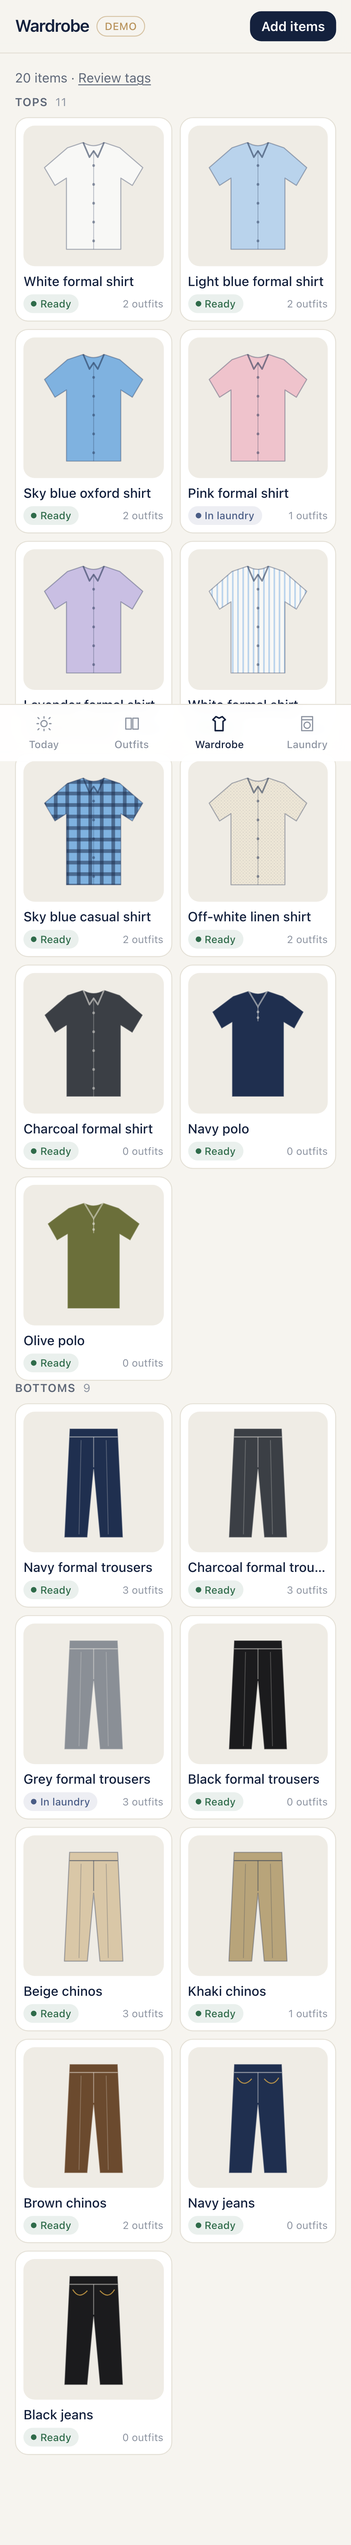
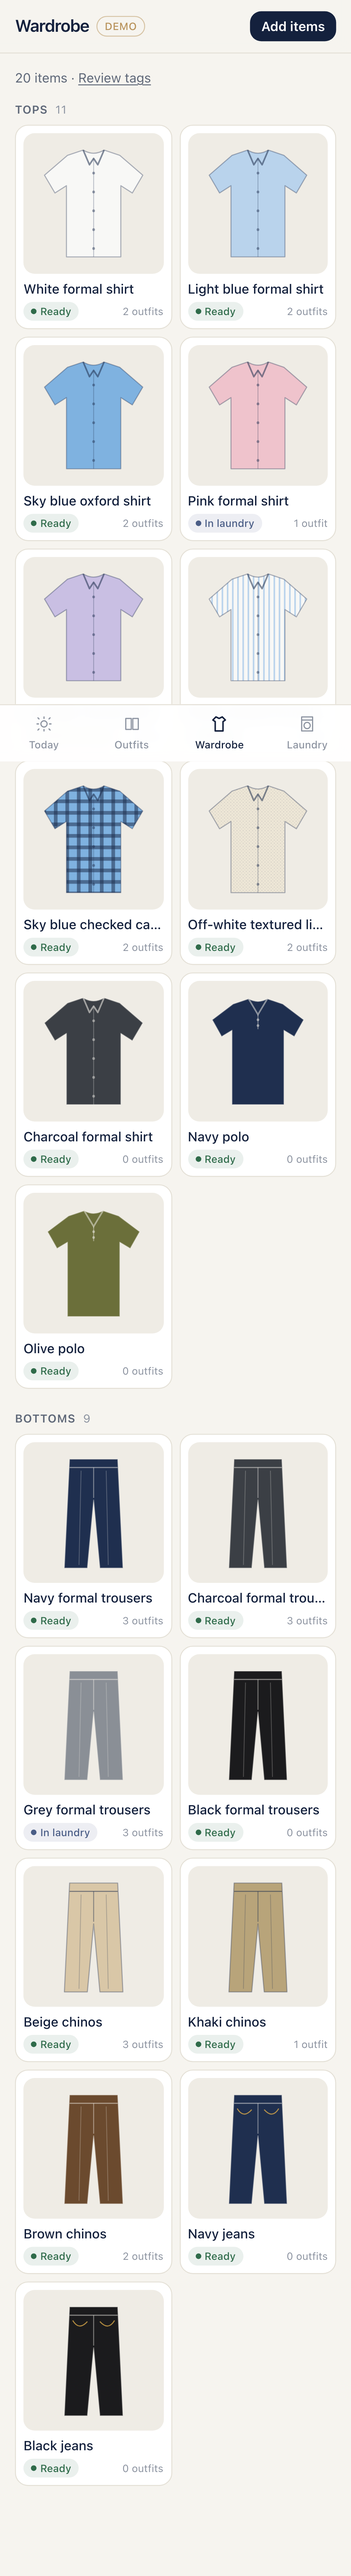
Polish screens: pattern-aware item names, deduped empty state, spacing
- Name patterned items ("white striped formal shirt") everywhere
- "One step away" lists each blocking item once
- Section spacing on Laundry and Wardrobe; singular/plural counts
- README screenshots

Claude-Session: https://claude.ai/code/session_01UoCtuTLtVQbGnkwP4W2tZg

diff --git a/app/(app)/laundry/page.tsx b/app/(app)/laundry/page.tsx
@@ -1,8 +1,9 @@
 "use client";
 
 import { AppShell } from "@/components/AppShell";
-import { Button, GarmentImage, SectionTitle, StateBadge, capitalise } from "@/components/ui";
+import { Button, GarmentImage, SectionTitle, StateBadge, capitalise, plural } from "@/components/ui";
 import { useWardrobe } from "@/components/WardrobeProvider";
+import { itemName } from "@/lib/state/today";
 import type { Item, ItemState } from "@/lib/types";
 
 const GROUPS: Array<{ state: ItemState; title: string }> = [
@@ -24,21 +25,21 @@ export default function LaundryPage() {
         <Button
           data-testid="laundry-done"
           disabled={busy || inLaundry.length === 0}
-          onClick={() => void run((r) => r.laundryDone(), { message: `${inLaundry.length} items back from the wash` })}
+          onClick={() => void run((r) => r.laundryDone(), { message: `${plural(inLaundry.length, "item")} back from the wash` })}
           className="flex-col gap-0.5 py-3"
         >
           Laundry done
-          <span className="text-xs font-normal opacity-75">{inLaundry.length} items</span>
+          <span className="text-xs font-normal opacity-75">{plural(inLaundry.length, "item")}</span>
         </Button>
         <Button
           data-testid="all-ironed"
           variant="secondary"
           disabled={busy || toIron.length === 0}
-          onClick={() => void run((r) => r.ironed(), { message: `${toIron.length} items ironed` })}
+          onClick={() => void run((r) => r.ironed(), { message: `${plural(toIron.length, "item")} ironed` })}
           className="flex-col gap-0.5 py-3"
         >
           All ironed
-          <span className="text-xs font-normal text-muted">{toIron.length} items</span>
+          <span className="text-xs font-normal text-muted">{plural(toIron.length, "item")}</span>
         </Button>
       </div>
       <p className="mt-2 text-xs text-faint">
@@ -49,7 +50,7 @@ export default function LaundryPage() {
         const items = byState(state);
         if (items.length === 0 && state === "unavailable") return null;
         return (
-          <section key={state} data-testid={`group-${state}`}>
+          <section key={state} data-testid={`group-${state}`} className="mt-6">
             <SectionTitle count={items.length}>{title}</SectionTitle>
             {items.length === 0 ? (
               <p className="text-sm text-faint">Nothing here.</p>
@@ -69,7 +70,7 @@ export default function LaundryPage() {
 
 function LaundryRow({ item }: { item: Item }) {
   const { run, busy } = useWardrobe();
-  const name = capitalise(`${item.primary_color} ${item.subcategory}`);
+  const name = capitalise(itemName(item));
   return (
     <li className="flex items-center gap-3 rounded-xl border border-line bg-card p-2 pr-3" data-item-id={item.id}>
       <GarmentImage item={item} className="h-12 w-12 shrink-0" />

diff --git a/lib/state/today.ts b/lib/state/today.ts
@@ -69,9 +69,17 @@ export interface ClosestOutfit {
   action: string;
 }
 
-/** Plain-language name for an item, e.g. "light blue formal shirt". */
-export function itemName(item: Item): string {
-  return `${item.primary_color} ${item.subcategory}`;
+const PATTERN_WORD: Partial<Record<Item["pattern"], string>> = {
+  stripe: "striped",
+  check: "checked",
+  print: "printed",
+  textured: "textured",
+};
+
+/** Plain-language name for an item, e.g. "light blue formal shirt" or "white striped formal shirt". */
+export function itemName(item: Pick<Item, "primary_color" | "subcategory" | "pattern">): string {
+  const pattern = PATTERN_WORD[item.pattern];
+  return pattern ? `${item.primary_color} ${pattern} ${item.subcategory}` : `${item.primary_color} ${item.subcategory}`;
 }
 
 const ACTION_VERB: Record<Exclude<ItemState, "ready">, string> = {
@@ -82,8 +90,9 @@ const ACTION_VERB: Record<Exclude<ItemState, "ready">, string> = {
 
 /**
  * For the "nothing fully ready" empty state: approved outfits blocked by
- * exactly one item, with the action that unblocks each. Ironing first (the
- * quickest fix), then the most-worn outfits.
+ * exactly one item, with the action that unblocks each. One entry per blocking
+ * item (fixing it may unblock several outfits). Ironing first (the quickest
+ * fix), then the most-worn outfits.
  */
 export function closestOutfits(snapshot: WardrobeSnapshot, limit = 3): ClosestOutfit[] {
   const itemsById = new Map(snapshot.items.map((i) => [i.id, i]));
@@ -100,6 +109,7 @@ export function closestOutfits(snapshot: WardrobeSnapshot, limit = 3): ClosestOu
     result.push({ outfit, blocking, action: `${verb} ${itemName(blocking)}` });
   }
   const priority: Record<ItemState, number> = { needs_ironing: 0, in_laundry: 1, unavailable: 2, ready: 3 };
+  const seen = new Set<string>();
   return result
     .sort(
       (a, b) =>
@@ -107,5 +117,6 @@ export function closestOutfits(snapshot: WardrobeSnapshot, limit = 3): ClosestOu
         b.outfit.times_worn - a.outfit.times_worn ||
         a.outfit.id.localeCompare(b.outfit.id),
     )
+    .filter((c) => !seen.has(c.blocking.id) && seen.add(c.blocking.id))
     .slice(0, limit);
 }

diff --git a/app/(app)/wardrobe/page.tsx b/app/(app)/wardrobe/page.tsx
@@ -5,7 +5,7 @@ import { useState } from "react";
 import { AppShell } from "@/components/AppShell";
 import { ItemEditor } from "@/components/ItemEditor";
 import { Sheet } from "@/components/Sheet";
-import { Button, GarmentImage, SectionTitle, StateBadge, capitalise } from "@/components/ui";
+import { Button, GarmentImage, SectionTitle, StateBadge, capitalise, plural } from "@/components/ui";
 import { useWardrobe } from "@/components/WardrobeProvider";
 import { itemName } from "@/lib/state/today";
 import type { Category, Item } from "@/lib/types";
@@ -42,7 +42,7 @@ export default function WardrobePage() {
         const items = snapshot.items.filter((i) => categories.includes(i.category));
         if (items.length === 0) return null;
         return (
-          <section key={title}>
+          <section key={title} className="mt-6 first-of-type:mt-4">
             <SectionTitle count={items.length}>{title}</SectionTitle>
             <ul className="grid grid-cols-2 gap-2">
               {items.map((item) => (
@@ -55,7 +55,7 @@ export default function WardrobePage() {
                     <p className="mt-1.5 truncate text-sm font-medium">{capitalise(itemName(item))}</p>
                     <div className="mt-1 flex items-center justify-between">
                       <StateBadge state={item.state} />
-                      <span className="text-[11px] text-faint">{outfitCount(item.id)} outfits</span>
+                      <span className="text-[11px] text-faint">{plural(outfitCount(item.id), "outfit")}</span>
                     </div>
                   </button>
                 </li>

diff --git a/app/(app)/outfits/page.tsx b/app/(app)/outfits/page.tsx
@@ -8,6 +8,7 @@ import { Sheet } from "@/components/Sheet";
 import { Button, EmptyState, GarmentImage, capitalise } from "@/components/ui";
 import { useWardrobe } from "@/components/WardrobeProvider";
 import { isWearable } from "@/lib/state/machine";
+import { itemName } from "@/lib/state/today";
 import type { Item } from "@/lib/types";
 
 type Filter = "available" | "all";
@@ -113,7 +114,7 @@ function Picker({ title, items, value, onPick }: { title: string; items: Item[];
             key={i.id}
             onClick={() => onPick(i.id)}
             aria-pressed={value === i.id}
-            aria-label={`${i.primary_color} ${i.subcategory}`}
+            aria-label={itemName(i)}
             className={`shrink-0 rounded-xl ${value === i.id ? "ring-2 ring-ink ring-offset-2 ring-offset-paper" : ""}`}
           >
             <GarmentImage item={i} className="h-20 w-20" />
@@ -138,7 +139,7 @@ function CreateOutfit({ onDone }: { onDone: () => void }) {
       <Picker title="Top" items={tops} value={topId} onPick={setTopId} />
       <Picker title="Bottom" items={bottoms} value={bottomId} onPick={setBottomId} />
       <p className="mb-3 min-h-5 text-sm text-muted">
-        {top && bottom ? `${capitalise(top.primary_color)} ${top.subcategory} with ${bottom.primary_color} ${bottom.subcategory}` : "Pick a top and a bottom."}
+        {top && bottom ? `${capitalise(itemName(top))} with ${itemName(bottom)}` : "Pick a top and a bottom."}
       </p>
       <Button
         className="w-full"

diff --git a/tests/unit/state.test.ts b/tests/unit/state.test.ts
@@ -7,7 +7,7 @@ import {
   undoWear,
   wearOutfit,
 } from "../../lib/state/machine";
-import { closestOutfits, rankToday, wearableOutfits } from "../../lib/state/today";
+import { closestOutfits, itemName, rankToday, wearableOutfits } from "../../lib/state/today";
 import type { WardrobeSnapshot } from "../../lib/types";
 import { loadSeed, makeItem, makeOutfit } from "./fixtures";
 
@@ -178,6 +178,20 @@ describe("closest outfits (empty state)", () => {
     const closest = closestOutfits(s);
     expect(closest.length).toBeGreaterThan(0);
     expect(closest[0]!.action).toMatch(/^Iron the (white|light blue) formal shirt$/);
+  });
+
+  it("lists each blocking item once, even when it blocks several outfits", () => {
+    let s = wardrobe();
+    s = { ...s, items: s.items.map((i) => (i.id === "shirt2" ? { ...i, state: "needs_ironing" as const } : i)) };
+    s = { ...s, outfits: s.outfits.filter((o) => o.top_id === "shirt2") };
+    expect(s.outfits).toHaveLength(2);
+    expect(closestOutfits(s).map((c) => c.blocking.id)).toEqual(["shirt2"]);
+  });
+
+  it("names patterns so similar shirts can be told apart", () => {
+    const striped = makeItem({ id: "x", primary_color: "white", pattern: "stripe" });
+    expect(itemName(striped)).toBe("white striped formal shirt");
+    expect(itemName(makeItem({ id: "y" }))).toBe("white formal shirt");
   });
 
   it("skips outfits blocked by more than one item", () => {

diff --git a/components/OutfitCard.tsx b/components/OutfitCard.tsx
@@ -1,6 +1,7 @@
 "use client";
 
 import { lastWornLabel } from "@/lib/dates";
+import { itemName } from "@/lib/state/today";
 import type { Item, Outfit } from "@/lib/types";
 import { GarmentImage, StateBadge, capitalise } from "./ui";
 
@@ -28,12 +29,12 @@ export function OutfitCard({
       <div className="grid grid-cols-2 gap-2">
         <figure>
           <GarmentImage item={top} className="aspect-square" />
-          <figcaption className="mt-1.5 text-xs text-muted">{capitalise(`${top.primary_color} ${top.subcategory}`)}</figcaption>
+          <figcaption className="mt-1.5 text-xs text-muted">{capitalise(itemName(top))}</figcaption>
           {showStates && <div className="mt-1"><StateBadge state={top.state} /></div>}
         </figure>
         <figure>
           <GarmentImage item={bottom} className="aspect-square" />
-          <figcaption className="mt-1.5 text-xs text-muted">{capitalise(`${bottom.primary_color} ${bottom.subcategory}`)}</figcaption>
+          <figcaption className="mt-1.5 text-xs text-muted">{capitalise(itemName(bottom))}</figcaption>
           {showStates && <div className="mt-1"><StateBadge state={bottom.state} /></div>}
         </figure>
       </div>

diff --git a/components/ui.tsx b/components/ui.tsx
@@ -1,6 +1,7 @@
 "use client";
 
 import type { ButtonHTMLAttributes } from "react";
+import { itemName } from "@/lib/state/today";
 import type { Item, ItemState } from "@/lib/types";
 
 type Variant = "primary" | "secondary" | "ghost" | "danger";
@@ -54,7 +55,7 @@ export function GarmentImage({ item, className = "" }: { item: Item; className?:
       {/* eslint-disable-next-line @next/next/no-img-element -- demo SVGs and user photos from signed URLs */}
       <img
         src={item.thumb_url}
-        alt={`${item.primary_color} ${item.subcategory}`}
+        alt={itemName(item)}
         className="h-full w-full object-contain p-2"
         loading="lazy"
       />
@@ -79,6 +80,10 @@ export function SectionTitle({ children, count }: { children: React.ReactNode; c
       {count !== undefined && <span className="font-normal text-faint">{count}</span>}
     </h2>
   );
+}
+
+export function plural(n: number, word: string): string {
+  return `${n} ${word}${n === 1 ? "" : "s"}`;
 }
 
 export function capitalise(text: string): string {

diff --git a/app/(app)/curate/page.tsx b/app/(app)/curate/page.tsx
@@ -5,6 +5,7 @@ import { useRef, useState } from "react";
 import { AppShell } from "@/components/AppShell";
 import { Button, EmptyState, GarmentImage, capitalise } from "@/components/ui";
 import { useWardrobe } from "@/components/WardrobeProvider";
+import { itemName } from "@/lib/state/today";
 import type { Decision } from "@/lib/types";
 
 const SWIPE_PX = 80;
@@ -77,7 +78,7 @@ export default function CuratePage() {
             </div>
             <p className="mt-3 text-base font-semibold">{current.reason}</p>
             <p className="mt-0.5 text-sm text-muted">
-              {capitalise(`${top.primary_color} ${top.subcategory}`)} with {bottom.primary_color} {bottom.subcategory}
+              {capitalise(itemName(top))} with {itemName(bottom)}
             </p>
             <p className="mt-1 text-xs text-faint">Match score {Math.round(current.score)}/100</p>
           </article>

diff --git a/components/ItemEditor.tsx b/components/ItemEditor.tsx
@@ -4,6 +4,7 @@ import { useState } from "react";
 import { PALETTE_HEX } from "@/lib/pairing/colors-hex";
 import { PALETTE, type PaletteColor } from "@/lib/pairing/palette";
 import type { ItemPatch } from "@/lib/repo/types";
+import { itemName } from "@/lib/state/today";
 import type { Category, Item, Pattern } from "@/lib/types";
 import { Button, GarmentImage, capitalise } from "./ui";
 
@@ -111,7 +112,7 @@ export function ItemEditor({
       <div className="mb-4 flex items-center gap-3">
         <GarmentImage item={item} className="h-20 w-20 shrink-0" />
         <p className="text-sm text-muted">
-          {capitalise(`${v.primary_color} ${v.subcategory}`)}
+          {capitalise(itemName(v))}
           <br />
           Fix anything the tagger got wrong; pairing uses these tags.
         </p>

diff --git a/README.md b/README.md
@@ -2,7 +2,13 @@
 
 Photograph your office clothes once. AI pairs them into outfits you approve, and each morning the app shows only the outfits whose every piece is washed and ironed. Picking what to wear becomes one tap.
 
-> Status: demo mode complete (phases 1–3). Real accounts, photo tagging and the live deploy come next. A live link, demo GIF and architecture diagram will land here with the deploy.
+> Status: demo mode complete and tested (phases 1–3). Real accounts, AI photo tagging and the live deploy come next.
+
+<p>
+  <img src="docs/screens/1-today.png" width="220" alt="Today: outfits ready to wear" />
+  <img src="docs/screens/5-curate.png" width="220" alt="Curate: approve or reject AI pairings" />
+  <img src="docs/screens/4-laundry.png" width="220" alt="Laundry: bulk wash and ironing state" />
+</p>
 
 ## Try it locally
 
